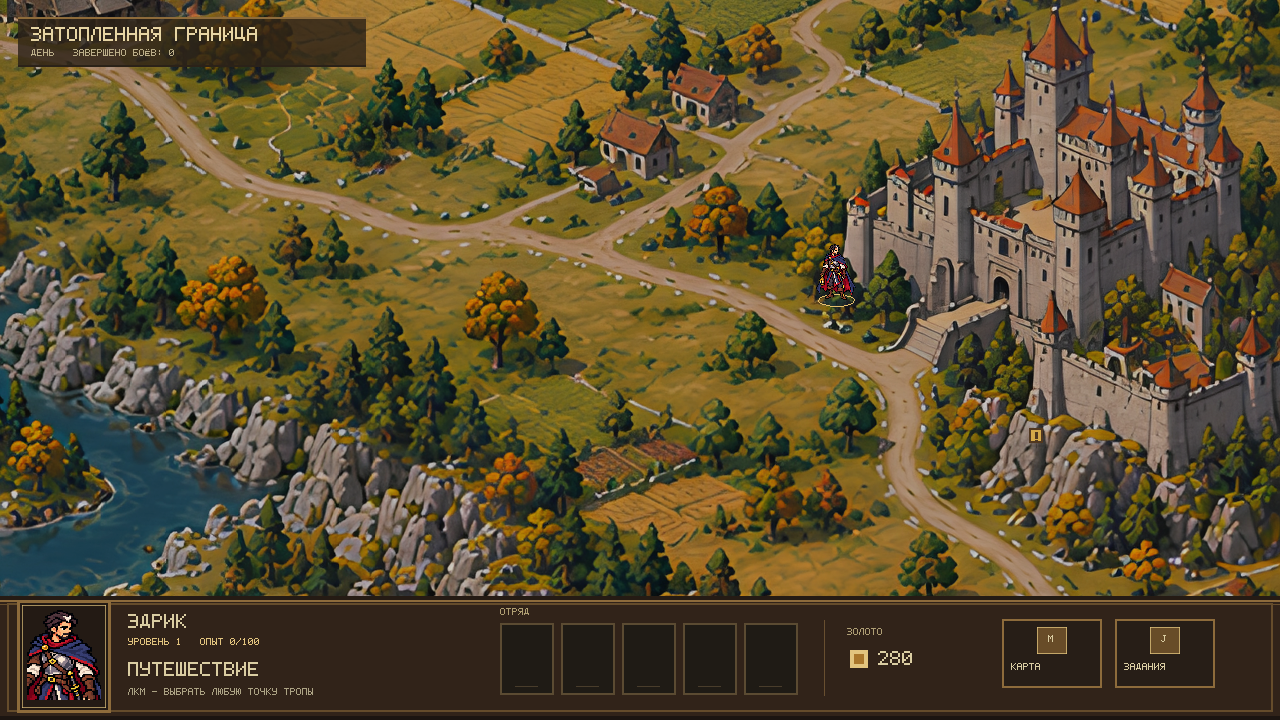
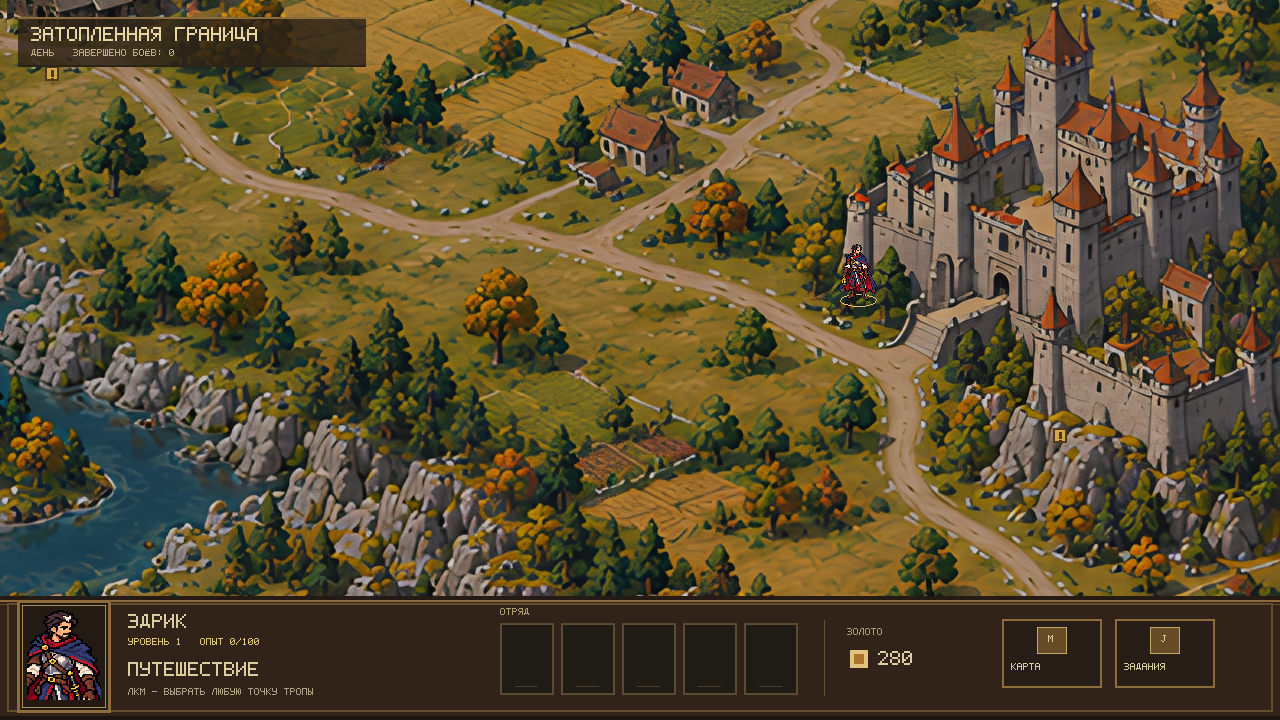
art(map): clear southern dam approach in high-resolution preview

diff --git a/src/Game.MonoGame/AssetCatalog.cs b/src/Game.MonoGame/AssetCatalog.cs
@@ -24,6 +24,7 @@ internal sealed class AssetCatalog : IDisposable
     public const string AdventureGround = "exploration.ground";
     public const string FloraIslandGround = "exploration.flora-island";
     public const string HumanBorderGround = "exploration.human-border";
+    public const string HumanBorderDamEdit = "exploration.human-border-dam-edit-v3";
     public const string FloraIslandNorthWest = "exploration.flora-island-v5-nw";
     public const string FloraIslandNorthEast = "exploration.flora-island-v5-ne";
     public const string FloraIslandSouthWest = "exploration.flora-island-v5-sw";
@@ -60,7 +61,8 @@ internal sealed class AssetCatalog : IDisposable
     {
         foreach (var key in new[] { FloraHero, HumanHero, UndeadHero, HumanGuard, Rock,
                      FloraPortrait, HumanPortrait, UndeadPortrait,
-                     AncientOak, ForestTree, Treasure, AdventureGround, FloraIslandGround, HumanBorderGround,
+                     AncientOak, ForestTree, Treasure, AdventureGround, FloraIslandGround,
+                     HumanBorderGround, HumanBorderDamEdit,
                      FloraIslandNorthWest, FloraIslandNorthEast,
                      FloraIslandSouthWest, FloraIslandSouthEast,
                      "unit.flora.sprout", "unit.flora.thorn-guard", "unit.flora.ember-bloom",
@@ -75,7 +77,7 @@ internal sealed class AssetCatalog : IDisposable
                      RootGreenhouse, SunnyClearing, SporeCircle,
                      BattlefieldForestDay, BattlefieldForestNight })
         {
-            if (key == HumanBorderGround && !loadHumanBorder) continue;
+            if (key is HumanBorderGround or HumanBorderDamEdit && !loadHumanBorder) continue;
             var path = Path.Combine(AppContext.BaseDirectory, "Content", "art", key + ".png");
             if (!File.Exists(path))
                 continue;
@@ -84,6 +86,8 @@ internal sealed class AssetCatalog : IDisposable
             {
                 using var stream = File.OpenRead(path);
                 var texture = LoadPremultiplied(device, stream, out var contentBounds);
+                if (key == HumanBorderDamEdit)
+                    HumanBorderArt.ApplyDamEditMask(texture);
                 if (mapPixelSize > 0 && key is FloraIslandNorthWest or FloraIslandNorthEast or
                     FloraIslandSouthWest or FloraIslandSouthEast)
                 {

diff --git a/src/Game.MonoGame/Rendering/HumanBorderArt.cs b/src/Game.MonoGame/Rendering/HumanBorderArt.cs
@@ -1,0 +1,43 @@
+using Microsoft.Xna.Framework;
+using Microsoft.Xna.Framework.Graphics;
+
+namespace Game.MonoGame.Rendering;
+
+/// <summary>Local replacement for the tower at the west end of the southern dam.</summary>
+internal static class HumanBorderArt
+{
+    private const float ReferenceWidth = 6688;
+    private const float ReferenceHeight = 3764;
+    private static readonly Rectangle DamEditRegion = new(2700, 2350, 1024, 1024);
+
+    public static void ApplyDamEditMask(Texture2D texture)
+    {
+        var pixels = new Color[texture.Width * texture.Height];
+        texture.GetData(pixels);
+        for (var y = 0; y < texture.Height; y++)
+        for (var x = 0; x < texture.Width; x++)
+        {
+            var sourceX = x * 1024f / texture.Width;
+            var sourceY = y * 1024f / texture.Height;
+            var dx = (sourceX - 420f) / 165f;
+            var dy = (sourceY - 390f) / 195f;
+            var distance = MathF.Sqrt(dx * dx + dy * dy);
+            var alpha = Math.Clamp((1f - distance) / 0.18f, 0f, 1f);
+            var pixel = pixels[y * texture.Width + x];
+            pixels[y * texture.Width + x] = new Color(
+                (byte)(pixel.R * alpha), (byte)(pixel.G * alpha),
+                (byte)(pixel.B * alpha), (byte)(pixel.A * alpha));
+        }
+        texture.SetData(pixels);
+    }
+
+    public static void DrawDamEdit(PixelCanvas canvas, AssetCatalog assets, Rectangle fullMapDestination)
+    {
+        var destination = new Rectangle(
+            fullMapDestination.X + (int)MathF.Round(DamEditRegion.X / ReferenceWidth * fullMapDestination.Width),
+            fullMapDestination.Y + (int)MathF.Round(DamEditRegion.Y / ReferenceHeight * fullMapDestination.Height),
+            Math.Max(1, (int)MathF.Round(DamEditRegion.Width / ReferenceWidth * fullMapDestination.Width)),
+            Math.Max(1, (int)MathF.Round(DamEditRegion.Height / ReferenceHeight * fullMapDestination.Height)));
+        assets.TryDraw(canvas, AssetCatalog.HumanBorderDamEdit, destination);
+    }
+}

diff --git a/src/Game.MonoGame/GameLaunchOptions.cs b/src/Game.MonoGame/GameLaunchOptions.cs
@@ -22,6 +22,7 @@ public sealed record GameLaunchOptions
     public bool PreviewNavigation { get; init; }
     public bool PreviewFreeTravel { get; init; }
     public bool PreviewHumanCampaign { get; init; }
+    public bool PreviewHumanDam { get; init; }
     public string? PreviewRecruitmentSiteId { get; init; }
     public string? PreviewMapSiteId { get; init; }
     public int BattleSeed { get; init; } = 1729;
@@ -82,6 +83,7 @@ public sealed record GameLaunchOptions
                 case "--screenshot-human-map":
                 case "--screenshot-human-overview":
                 case "--screenshot-human-navigation":
+                case "--screenshot-human-dam":
                 case "--screenshot-navigation":
                 case "--screenshot-travel":
                 case "--screenshot-journal":
@@ -198,7 +200,8 @@ public sealed record GameLaunchOptions
                 or "--screenshot-human-overview" or "--screenshot-human-navigation",
             PreviewNavigation = mode is "--screenshot-navigation" or "--screenshot-human-navigation",
             PreviewHumanCampaign = mode is "--screenshot-human-map" or "--screenshot-human-overview"
-                or "--screenshot-human-navigation",
+                or "--screenshot-human-navigation" or "--screenshot-human-dam",
+            PreviewHumanDam = mode == "--screenshot-human-dam",
             PreviewFreeTravel = mode == "--screenshot-travel",
             PreviewJournalPanel = mode == "--screenshot-journal",
             PreviewMapSiteId = mode switch

diff --git a/tests/Game.Tests/GameLaunchOptionsTests.cs b/tests/Game.Tests/GameLaunchOptionsTests.cs
@@ -9,6 +9,7 @@ public sealed class GameLaunchOptionsTests
     [InlineData("--screenshot-human-map", false, false)]
     [InlineData("--screenshot-human-overview", true, false)]
     [InlineData("--screenshot-human-navigation", true, true)]
+    [InlineData("--screenshot-human-dam", false, false)]
     public void HumanMapCaptureLoadsHumanCampaignWithOptionalOverviewAndDiagnosticOutline(
         string mode, bool overview, bool navigation)
     {
@@ -16,6 +17,7 @@ public sealed class GameLaunchOptionsTests
         Assert.True(options.PreviewHumanCampaign);
         Assert.Equal(overview, options.PreviewMapPanel);
         Assert.Equal(navigation, options.PreviewNavigation);
+        Assert.Equal(mode == "--screenshot-human-dam", options.PreviewHumanDam);
         Assert.False(options.PlayableCombat);
     }
 

diff --git a/src/Game.MonoGame/Game1.cs b/src/Game.MonoGame/Game1.cs
@@ -94,6 +94,8 @@ internal sealed class Game1 : Microsoft.Xna.Framework.Game
                 saveWarning) { ShowNavigation = _options.PreviewNavigation };
             if (_options.ScreenshotPath is not null && _options.PreviewMapSiteId is { } sitePreview)
                 ((ExplorationScreen)_screen).PrepareSitePlacementPreview(sitePreview);
+            if (_options.PreviewHumanDam)
+                ((ExplorationScreen)_screen).PrepareHumanDamPreview();
             if (_options.ScreenshotPath is not null && _options.PreviewRecruitmentSiteId is not null)
                 ((ExplorationScreen)_screen).CaptureRecruitmentPurchasePreview();
             if (_options.Night) ((ExplorationScreen)_screen).PrepareNightPreview();

diff --git a/src/Game.MonoGame/Screens/ExplorationPanels.cs b/src/Game.MonoGame/Screens/ExplorationPanels.cs
@@ -2,6 +2,7 @@ using Game.Core.Campaigns;
 using Game.Core.Geometry;
 using Game.Core.World;
 using Game.Core.Navigation;
+using Game.MonoGame.Rendering;
 using Microsoft.Xna.Framework;
 
 namespace Game.MonoGame.Screens;
@@ -51,6 +52,7 @@ internal sealed class ExplorationPanels(PixelCanvas canvas, AssetCatalog assets)
         {
             using var tint = canvas.PushTint(BattleLighting.ExplorationTint(nightBlend));
             assets.TryDraw(canvas, AssetCatalog.HumanBorderGround, _displayMapArea);
+            HumanBorderArt.DrawDamEdit(canvas, assets, _displayMapArea);
         }
         else canvas.Rect(MapArea.X, MapArea.Y, MapArea.Width, MapArea.Height, new Color(92, 110, 63));
 

diff --git a/src/Game.MonoGame/Screens/ExplorationScreen.cs b/src/Game.MonoGame/Screens/ExplorationScreen.cs
@@ -254,6 +254,13 @@ internal sealed class ExplorationScreen : IGameScreen
         _camera.CenterOn(_projection.FromArt(anchor) + new NumericsVector2(0, -40));
     }
 
+    internal void PrepareHumanDamPreview()
+    {
+        _questScreen = null;
+        _encounterScreen = null;
+        _camera.CenterOn(_projection.FromArt(new MapPosition(770, 690)));
+    }
+
     internal void CaptureRecruitmentPurchasePreview() => _recruitmentScreen?.CapturePurchasePreview();
 
     private float _nightBlend;

diff --git a/src/Game.MonoGame/Rendering/AdventureMapRenderer.cs b/src/Game.MonoGame/Rendering/AdventureMapRenderer.cs
@@ -177,6 +177,7 @@ internal sealed class AdventureMapRenderer(PixelCanvas canvas, AssetCatalog asse
         };
         if (assets.TryDraw(canvas, groundKey, worldRect))
         {
+            if (map.Id == "human-01") HumanBorderArt.DrawDamEdit(canvas, assets, worldRect);
             canvas.Rect(0, 0, 1280, MapViewportHeight, new Color(32, 36, 25) * 0.19f);
             return true;
         }

diff --git a/docs/design/campaign-02-flooded-border.md b/docs/design/campaign-02-flooded-border.md
@@ -2,7 +2,7 @@
 
 Блок-аут географии и маршрутов второй кампании для обсуждения. [Открыть схему](./campaign-02-flooded-border.svg) · [Первый арт](../art/maps/human-01-flooded-border-concept-v1.png) · [Апскейл пользователя, мастер 6688 × 3764](../../content/art/source/exploration.human-border-master-v1.png).
 
[2 lines of base64/hex data omitted]
 
 Долина разделена рекой. Справа — человеческая цитадель, беженцы, сухие холмы и военный тракт. Слева — затопленная деревня, заброшенные поля и некрополь. Люди перекрыли дамбу, чтобы спасти поселения ниже по течению, оставив жителей верхней долины погибать. Эдрик находит приказ и списки погибших в старой таможне. Нападения нежити при этом реальны: раскрытие приказа не превращает одну сторону в безусловно правую.
 
@@ -20,4 +20,4 @@
 
 Ориентир размера игрового мира — 3600 × 1900 условных координат. Карта должна прокручиваться и иметь открытые поляны и боковые области, а не один узкий коридор. Герой свободно ходит по суше, отмелям, дороге и террасам; глубокая вода, болота, стены и крутые откосы отделены навигационными многоугольниками. Видимой клеточной сетки нет. Небольшие лужи, редкие деревья и развалины обходятся естественно. Детализация финального арта умеренная, пиксельный масштаб местности и объектов согласован с персонажами.
 
-Движение и пересечения проверены поиском пути; следующий этап — разметить сюжетные события и доступность путей по выбору Эдрика. Текущий файл кампании всё ещё содержит временные задания. Составы боёв, экономика и условия превращения армии пока не утверждаются.
+Движение между ключевыми точками, обход красных препятствий и три отдельных пересечения воды проверены поиском пути. Красно-жёлтый контур отображается только в диагностическом режиме; в обычном режиме он скрыт. Следующий этап — разметить сюжетные события и доступность путей по выбору Эдрика. Текущий файл кампании всё ещё содержит временные задания. Составы боёв, экономика и условия превращения армии пока не утверждаются.
